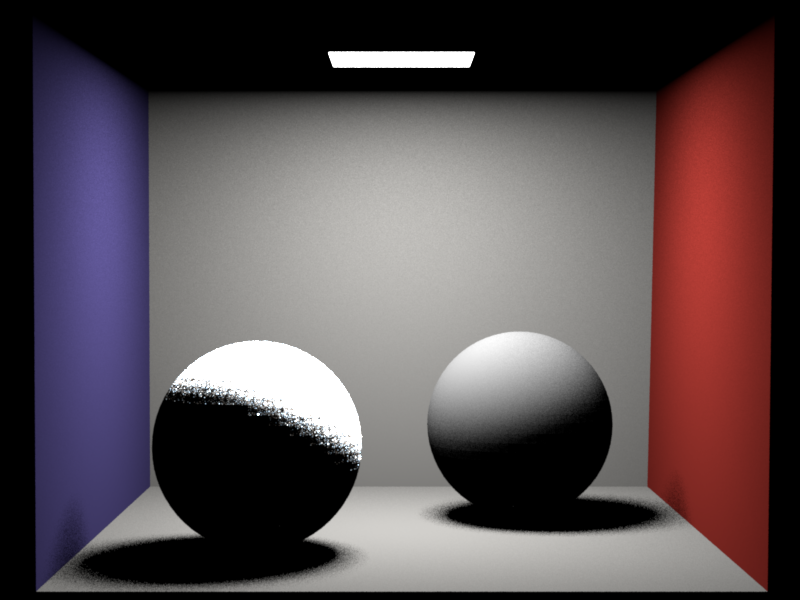
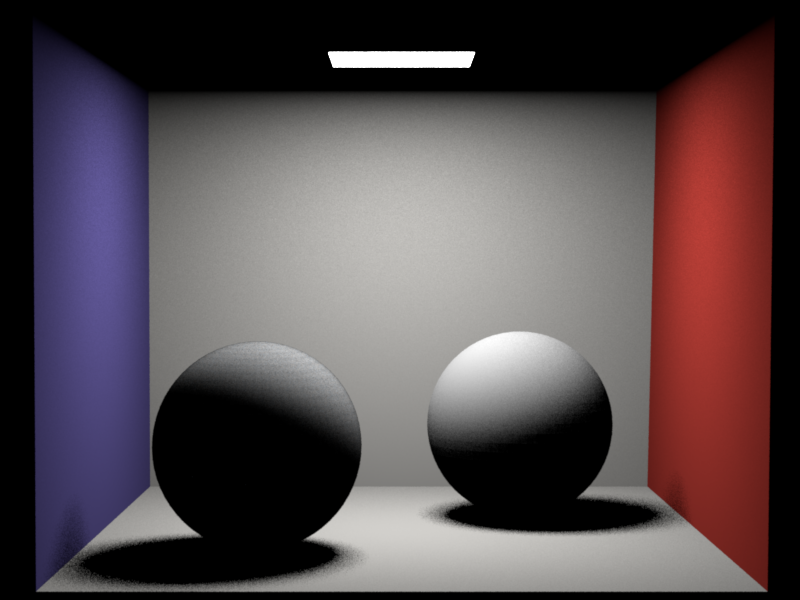
Pretty close except for the shape borders bug

Changed region(s): [[0.1875, 0.57, 0.4688, 0.78]]

diff --git a/src/subsurface.cpp b/src/subsurface.cpp
@@ -100,16 +100,19 @@ public:
 
     Color3f Sr_(float r) const
     {        
-        Color3f s = 3.5f + 100.0f * Math::pow4(3 - 0.33f);
-        Color3f d = ld / s;
+        // THIS FUNCTION HAS A SINGULARITY ON r=0????????
 
-        std::cout << d.toString() << std::endl;
+        r *= 1000.0f; // Convert to mm
+        //Color3f s = 3.5f + 100.0f * Math::pow4(R - 0.33f);
+        Color3f d = ld;
 
         Color3f num1 = Math::exp(-r / d);
         Color3f num2 = Math::exp(-r / (3 * d));
         Color3f den = 8.0f * M_PI * d * r;
-
-        return (num1 + num2) / den;
+        
+        Color3f result = (num1 + num2) / den;
+    
+        return result;
     }
 
     float sampleSr(float rnd, int channel) const
@@ -124,18 +127,20 @@ public:
         float x2 = XICdfInverse[i_xi + 1];
 
         float r = Math::lerp(r1, r2, (rnd - x1) / (x2 - x1));
-
-        Color3f s = 3.5f + 100.0f * Math::pow4(r - 0.33f);
-        Color3f d = ld / s;
-
-        std::cout << d.toString() << std::endl;
-
-        return r * d[channel];
+        
+        //Color3f s = 3.5f + 100.0f * Math::pow4(R - 0.33f);
+        Color3f d = ld;
+        r *= d[channel];
+        
+        return r / 1000.0f; // Convert to meters
     }
 
     float sampleSrPdf(float r, int channel) const
     {
-        return Sr_(r)[channel];
+        // We use dipole as pdf, although the sampling is for a different Sr function.
+        //  They are modeling the same effect so they are pretty close, 
+        //  so it is good enough for now
+        return dipoleDiffusionAproximation(r)[channel];
     }
 
     /// Evaluate the BRDF model
@@ -146,11 +151,6 @@ public:
             return Color3f(0.0f);
 
         return evalMS(bRec);
-
-        //if (!bRec.isCameraRay)
-        //    return m_albedo->eval(bRec.uv) * INV_PI;
-        //else
-        //    return evalSubsurface(bRec);
     }
 
 
@@ -164,7 +164,7 @@ public:
         return Warp::squareToCosineHemispherePdf(bRec.wo);
     }
 
-
+    /*
     bool samplePointOld(BSDFQueryRecord &bRec, Sampler *sampler, float &pdf) const
     {
         Color3f sigmaT = sigmaA + sigmaS;
@@ -193,6 +193,7 @@ public:
 
         return true;
     }
+    */
 
     Color3f samplePoint(BSDFQueryRecord &bRec, Sampler *sampler) const
     {
@@ -232,10 +233,6 @@ public:
         if (r > rMax)
             return Color3f(0.0f);
 
-        // Clamp to account for highly curved surfaces, change to meters
-        rMax /= 1000.0f;
-        r /= 1000.0f;
-
         // Sample a point on the disk
         float l = 2.0f * Math::sqrt(Math::pow2(rMax) - Math::pow2(r));
         float th = 2 * M_PI * sampler->next1D();
@@ -266,11 +263,6 @@ public:
 
         float pdf = pointPdf(bRec);
 
-        if (std::isnan(pdf))
-        {
-            std::cout << "NAN PDF" << std::endl;
-        }
-
         return Color3f(1.0f / pdf);
     }
 
@@ -291,7 +283,7 @@ public:
         {
             for (int ch = 0; ch < 3; ch++)
             {
-                pdf += sampleSrPdf(rProjected[axis]*1000, ch) 
+                pdf += sampleSrPdf(rProjected[axis], ch) 
                         * std::abs(l_n[axis]) 
                         * chProb * axisPdf[axis];
             }
@@ -412,6 +404,8 @@ public:
 
     Color3f betterAlternative (float r) const
     {
+        r *= 1000.0f; // Convert to mm
+
         Color3f sigmap_s = sigmaS;
         Color3f sigmap_t = sigmap_s + sigmaA;
         Color3f alphap = sigmap_s / sigmap_t;

diff --git a/plot.py b/plot.py
@@ -48,6 +48,24 @@ def Rdipole(r):
     return result
 
 
+def pow4(x):
+    return x*x*x*x
+
+def Sr_(r):
+    s = 3.5 + 100.0 * pow4(3 - 0.33)
+
+    D = (2 * sigmaA) / (3.0 * _sigmaT*_sigmaT)
+    d = 1.0 / math.sqrt(sigmaA/D)
+
+    num1 = math.exp(-r / d)
+    num2 = math.exp(-r / (3 * d))
+    den = 8.0 * math.pi * d * r
+    
+
+    result = (num1 + num2) / den
+
+    return result
+
 def expDecay(epsilon):
     # Define the decay constant
     decay_constant = _sigmaT
@@ -57,11 +75,10 @@ def expDecay(epsilon):
 
     return decay 
 
-def F(r, xi):
+def SrCdf(r, xi):
 
     return 1.0 - 0.25 * math.exp(-r) - 0.75 * math.exp(-r/3) - xi
 
-  
 
 steps = 1024
 x0 = 0
@@ -73,7 +90,7 @@ XI= np.array([])
 def computeInverse(xi):
     global x0, R, XI
 
-    r = scipy.optimize.newton(F,x0,args=(xi,))
+    r = scipy.optimize.newton(SrCdf,x0,args=(xi,))
     x0 = r
 
     XI = np.append(XI, xi)
@@ -90,7 +107,7 @@ computeInverse(full)
 #print(R * 1/sigmaTr)
 
 
-def sampleF(rnd):
+def sampleSr(rnd):
 
     # Compute index
     i_xi = np.floor(rnd * steps).astype(int)
@@ -109,6 +126,8 @@ def sampleF(rnd):
     sigmaTr = math.sqrt(sigmaA/D)
     d = 1 / sigmaTr
 
+    d = d
+
     return r * d
 
 
@@ -121,7 +140,7 @@ def generate_random_samples(size=10000):
     # Generates random samples from a uniform [0-1) distribution
     samples = np.random.rand(size)
 
-    return sampleF(samples)
+    return sampleSr(samples)
 
 # Generate random samples
 samples = generate_random_samples()
